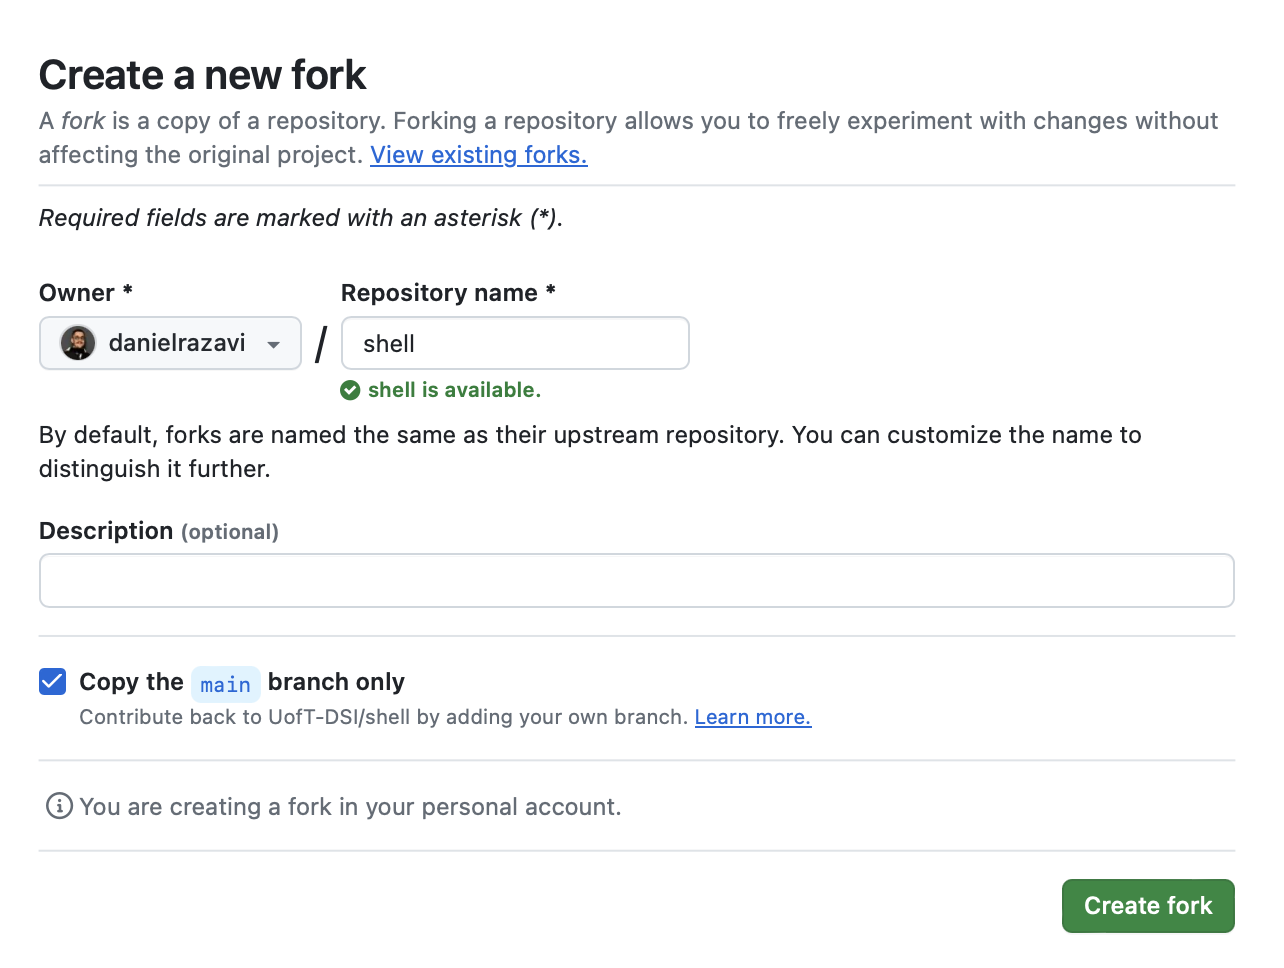
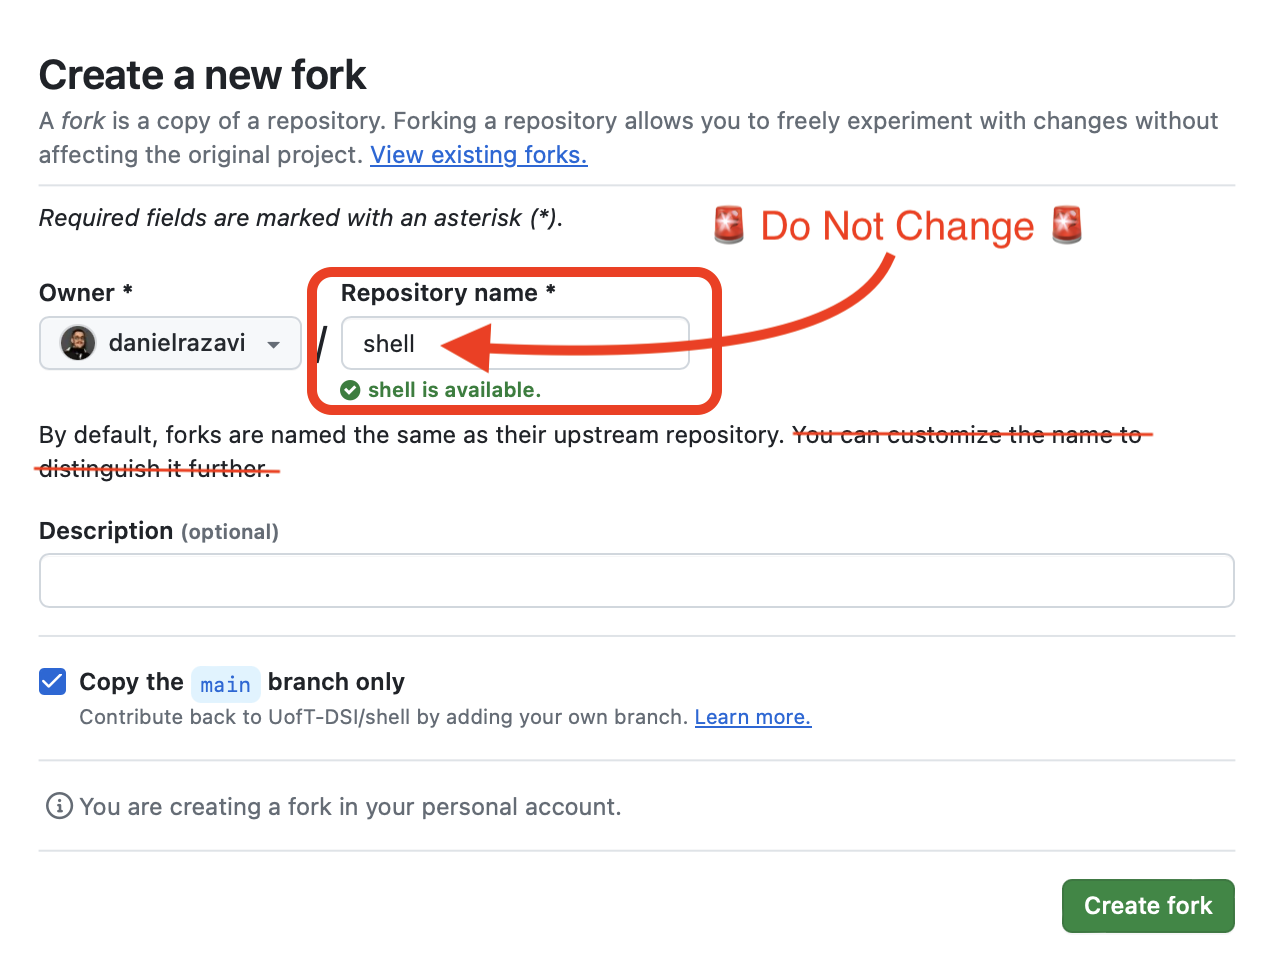
Updating the submissions.md on how to fork a repo.

diff --git a/onboarding_documents/submissions.md b/onboarding_documents/submissions.md
@@ -10,7 +10,7 @@ This guide is designed to standardize the submission and evaluation process for 
     - Visit the designated UofT-DSI module repo.
     - Click "fork" on the page:
         ![](./images/fork_repo.png)
-    - # 🚨🚨🚨Please do **NOT** change the repo name 🚨🚨🚨 presented in the "Create a new fork" page, simply click "Create Fork".
+    - Please do **NOT** change the repo name presented in the "Create a new fork" page, simply click "Create Fork".
         ![](./images/create_new_fork.png)
     - After a successful forking, your repo should be created at an address resembling `https://github.com/<YOUR GITHUB ID>/<LEARNING MODULE>`
 
